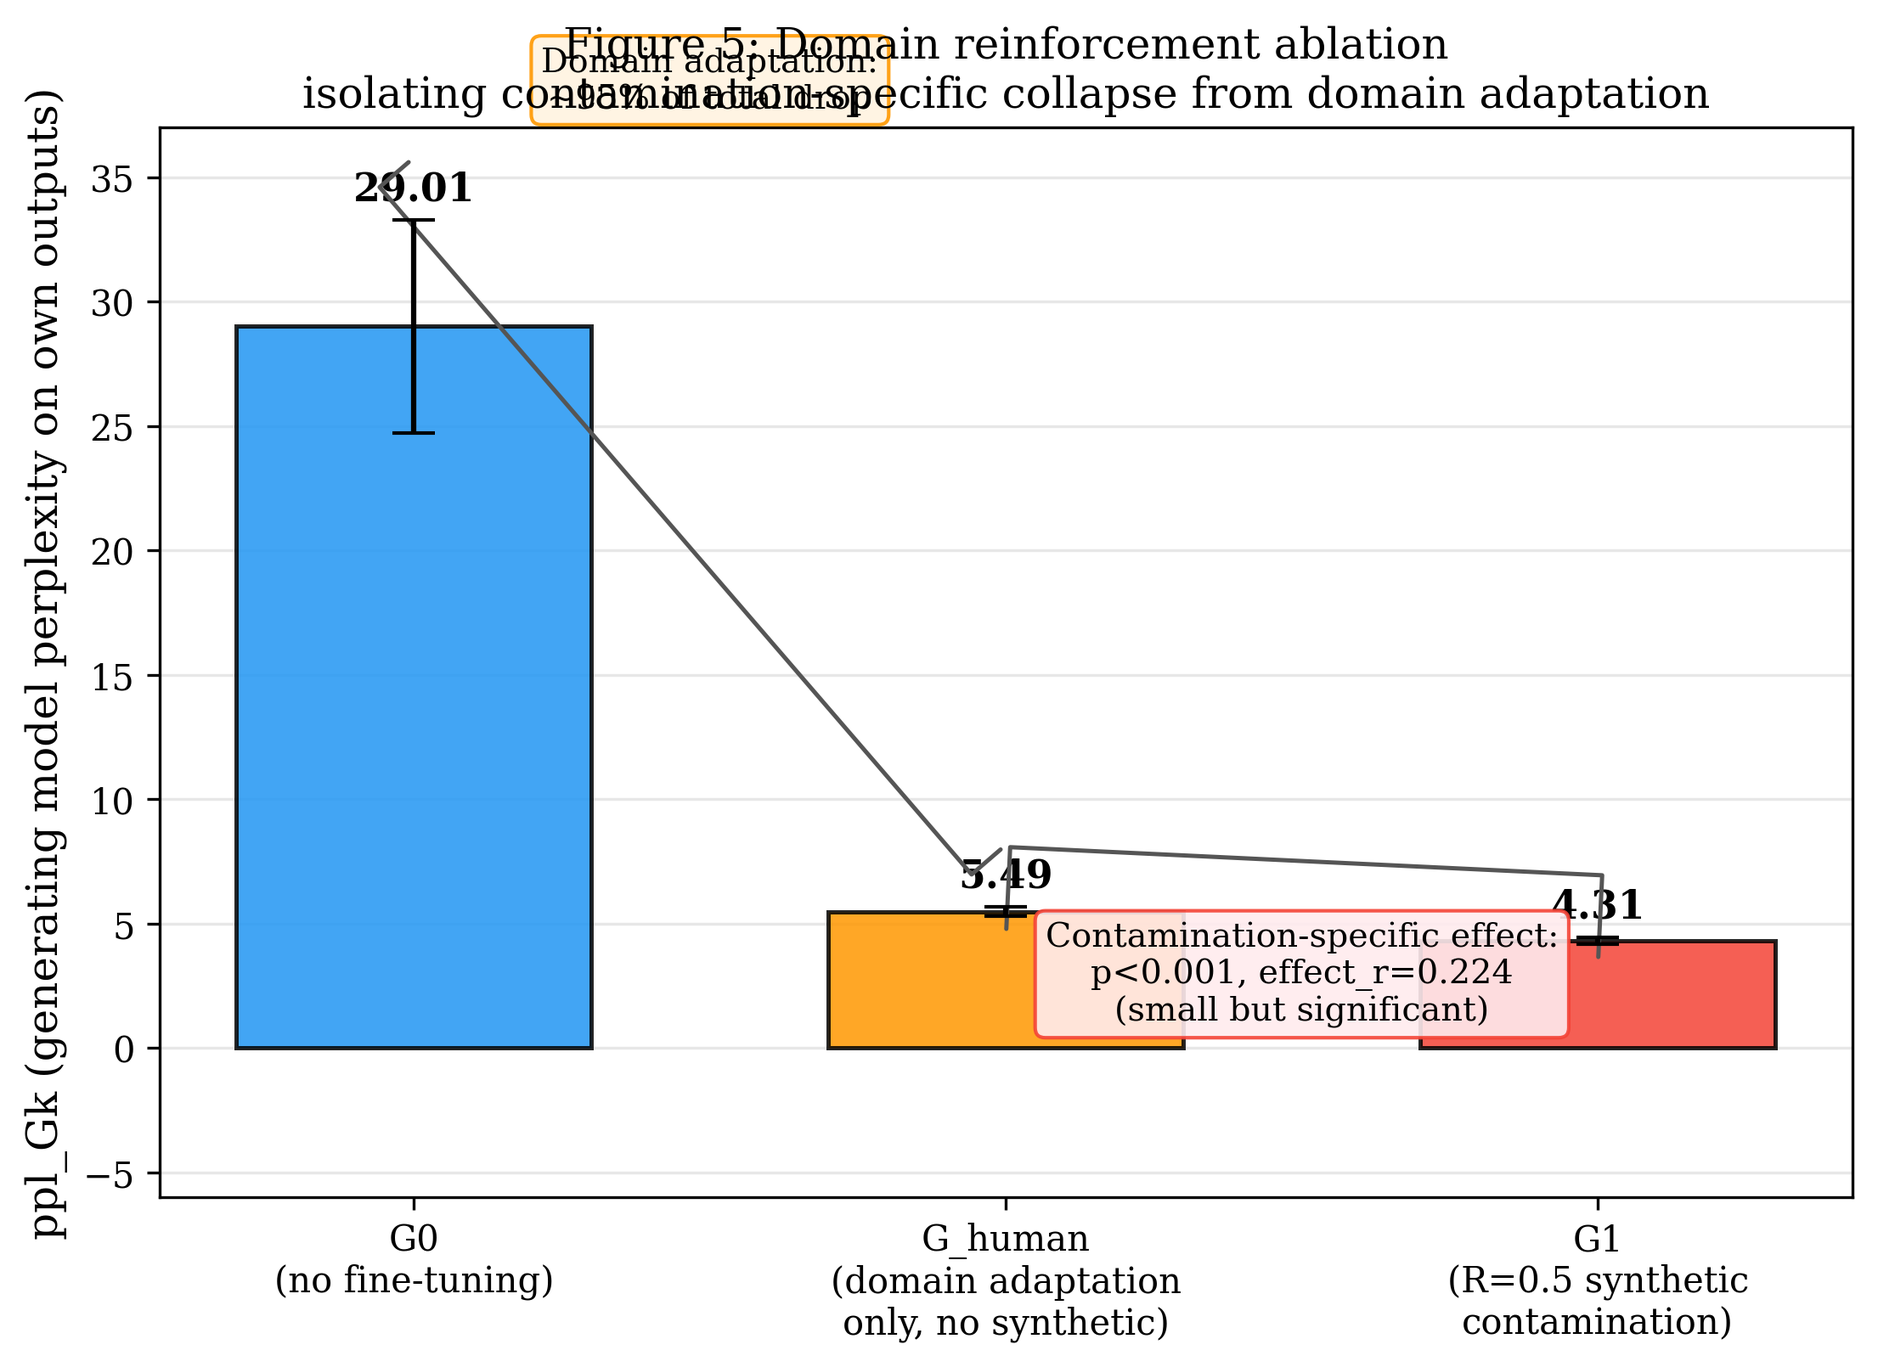
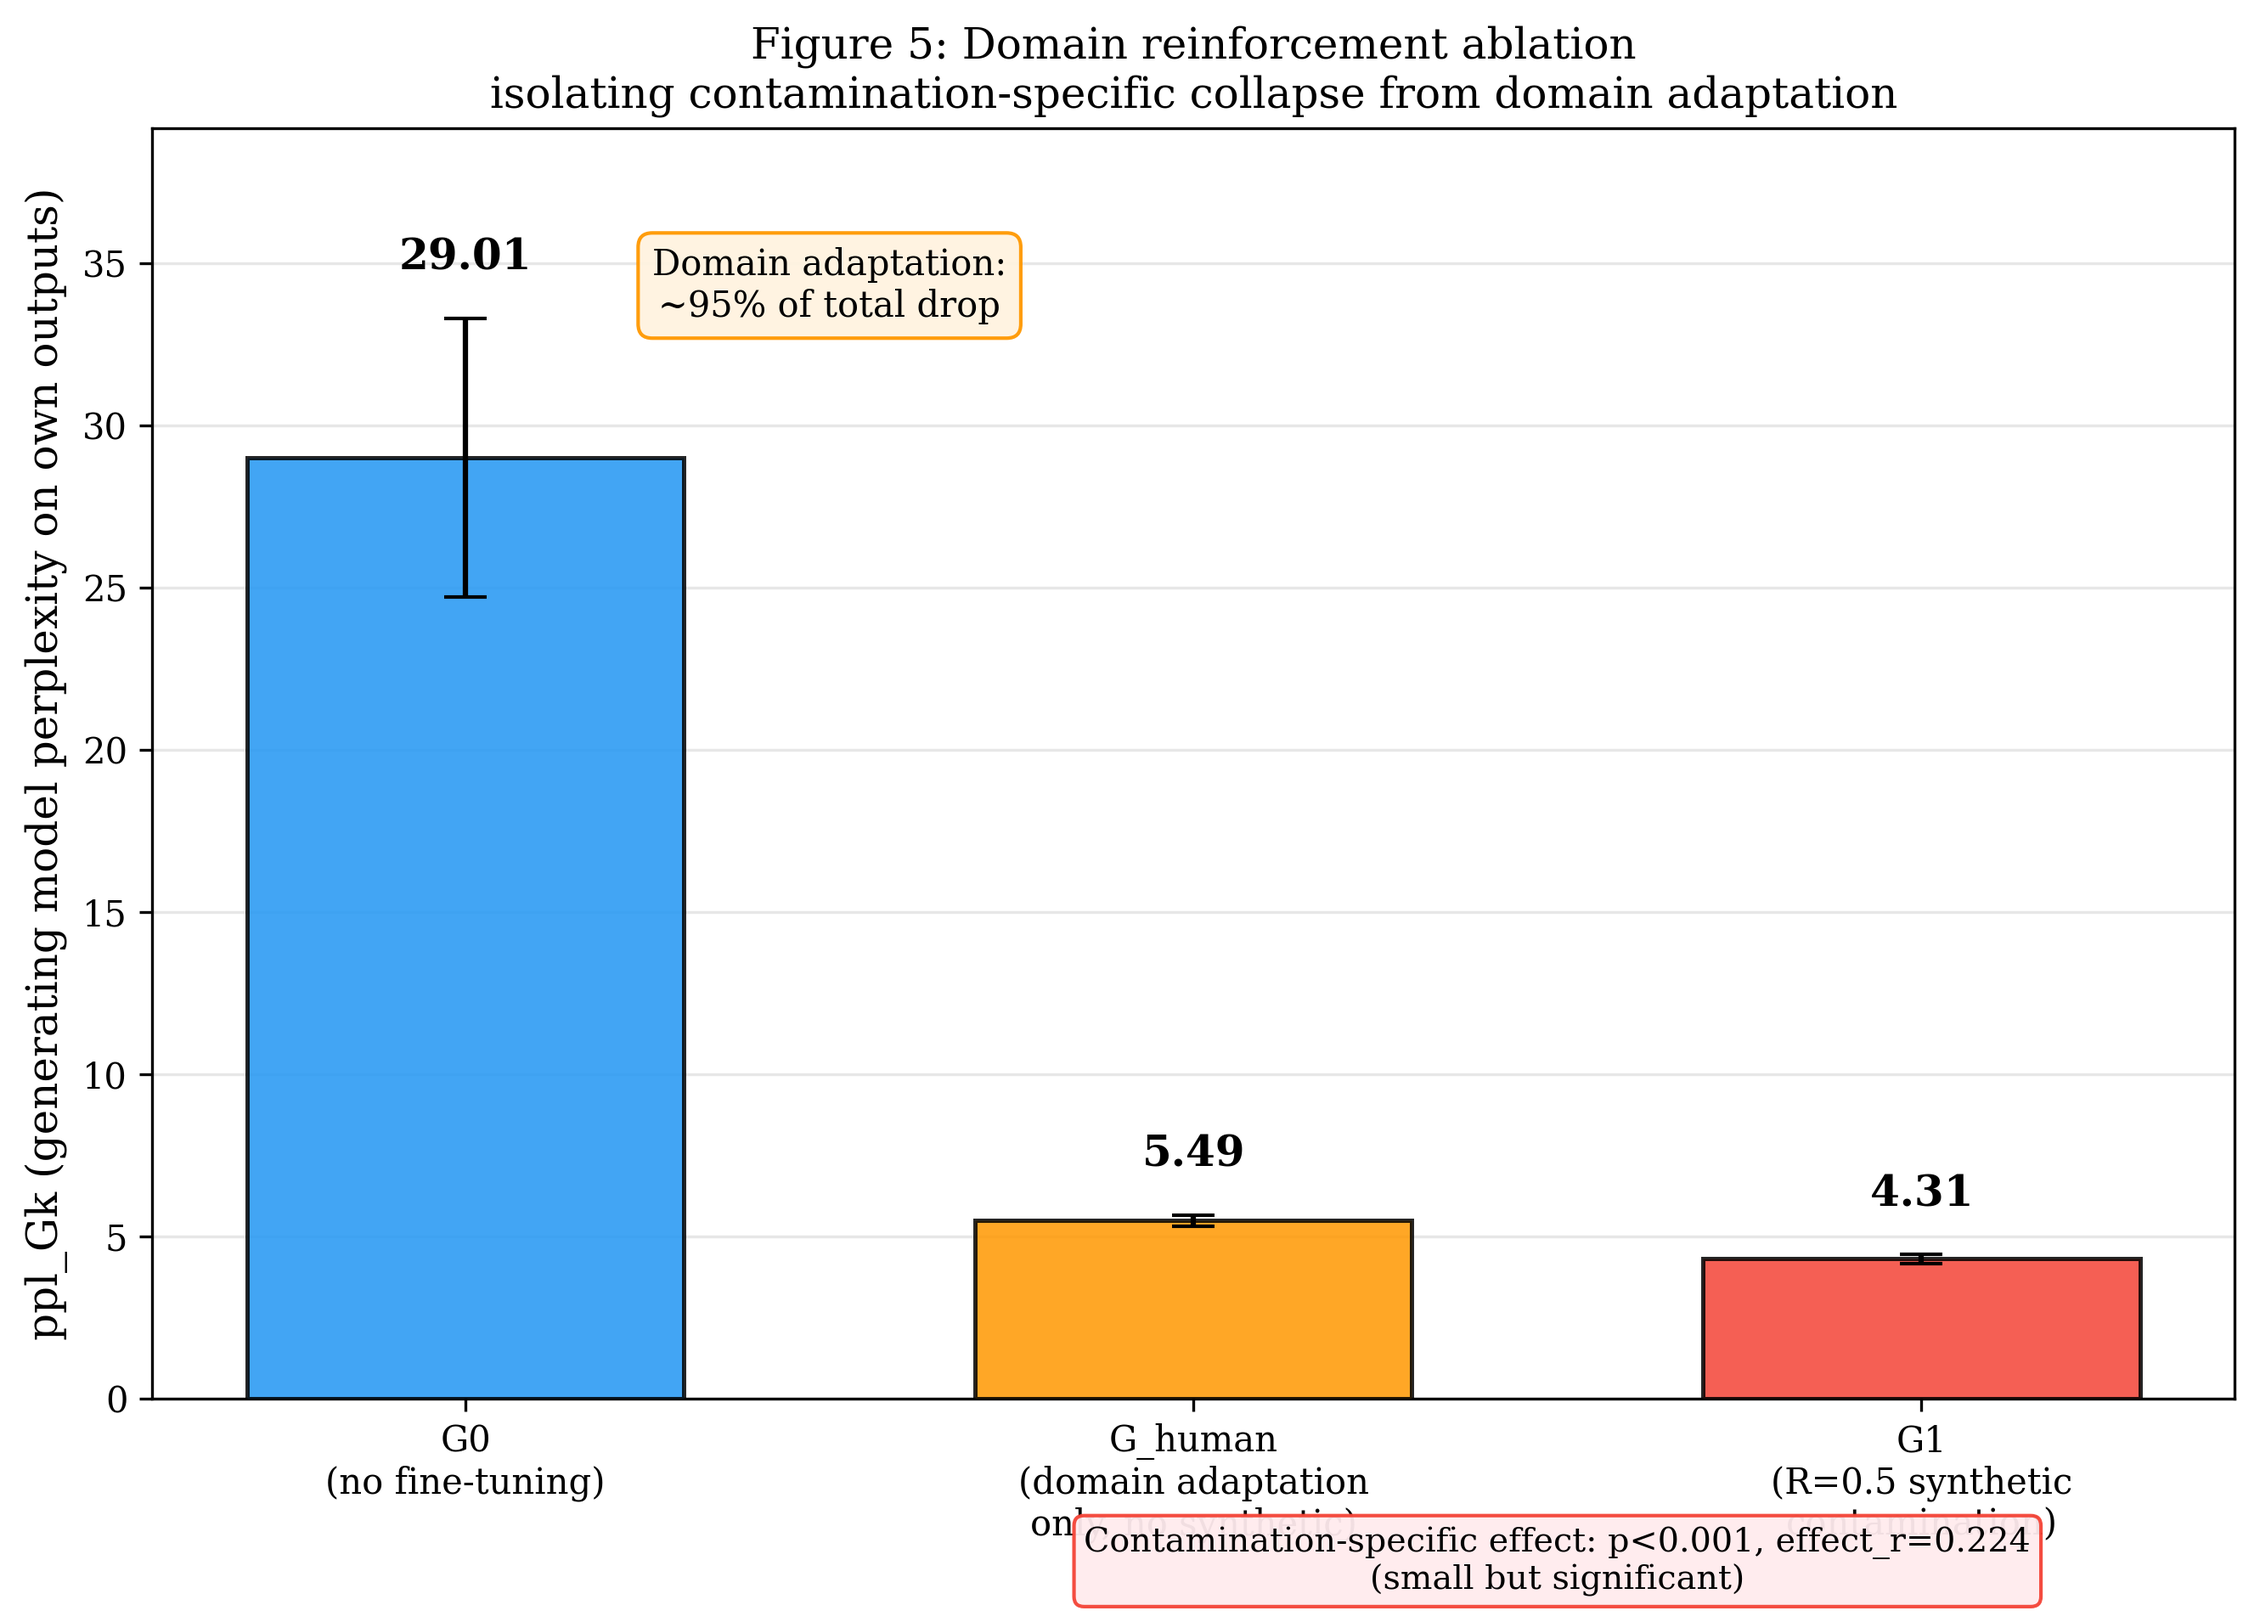
Add Figure 5 generation script and domain ablation plot
Decomposition:
- G0 -> G_human: 23.52 drop (95.2% domain adaptation)
- G_human -> G1: 1.18 drop (4.8% contamination-specific)
- Total G0 -> G1: 24.70 drop
- Mann-Whitney: U=25189, p=0.000007, effect_r=0.2244

diff --git a/plots/generate_figure5.py b/plots/generate_figure5.py
@@ -38,45 +38,39 @@ labels = ["G0\n(no fine-tuning)", "G_human\n(domain adaptation\nonly, no synthet
           "G1\n(R=0.5 synthetic\ncontamination)"]
 colors = ["#2196F3", "#FF9800", "#F44336"]
 
-fig, ax = plt.subplots(figsize=(7.5, 5.5))
-
-x = np.arange(3)
-ax.bar(x, means, yerr=sems, capsize=6, color=colors, alpha=0.85,
-       edgecolor="black", linewidth=1.2, width=0.6, zorder=3)
-
-for i, (m, s) in enumerate(zip(means, sems)):
-    ax.annotate(f"{m:.2f}", xy=(i, m + s + 0.8), ha="center",
-                fontsize=11, fontweight="bold")
-
-ax.set_xticks(x)
-ax.set_xticklabels(labels)
-ax.set_ylabel("ppl_Gk (generating model perplexity on own outputs)")
-ax.set_title("Figure 5: Domain reinforcement ablation\nisolating contamination-specific collapse from domain adaptation")
-ax.grid(axis="y", alpha=0.3, zorder=0)
-
-ax.annotate("", xy=(1, means[1]+sems[1]+2.5), xytext=(0, means[0]+sems[0]+2.5),
-            arrowprops=dict(arrowstyle="-", color="#555", linewidth=1.2,
-                             connectionstyle="bar,fraction=0.05"))
-ax.text(0.5, means[0]+sems[0]+4.5, "Domain adaptation:\n~95% of total drop",
-        ha="center", fontsize=9.5,
-        bbox=dict(boxstyle="round,pad=0.3", facecolor="#FFF3E0",
-                  edgecolor="#FF9800", alpha=0.9))
-
 U, p = stats.mannwhitneyu(g_human_ppls, g1_ppls, alternative="two-sided")
 n1, n2 = len(g_human_ppls), len(g1_ppls)
 z = (U - n1*n2/2) / (n1*n2*(n1+n2+1)/12)**0.5
 effect_r = abs(z) / (n1+n2)**0.5
 
-ax.annotate("", xy=(2, means[2]-sems[2]-0.8), xytext=(1, means[1]-sems[1]-0.8),
-            arrowprops=dict(arrowstyle="-", color="#555", linewidth=1.2,
-                             connectionstyle="bar,fraction=-0.15"))
-ax.text(1.5, min(means[1], means[2]) - 3.2,
-        f"Contamination-specific effect:\np<0.001, effect_r={effect_r:.3f}\n(small but significant)",
-        ha="center", fontsize=9.5,
-        bbox=dict(boxstyle="round,pad=0.3", facecolor="#FFEBEE",
-                  edgecolor="#F44336", alpha=0.9))
-
-ax.set_ylim(-6, max(means) + 8)
+fig, ax = plt.subplots(figsize=(9, 6.5))  # taller canvas
+x = np.arange(3)
+ax.bar(x, means, yerr=sems, capsize=6, color=colors, alpha=0.85,
+       edgecolor="black", linewidth=1.2, width=0.6, zorder=3)
+# Value labels ABOVE error bars, not overlapping the connector line
+for i, (m, s) in enumerate(zip(means, sems)):
+    ax.annotate(f"{m:.2f}", xy=(i, m + s + 1.5), ha="center",
+                fontsize=12, fontweight="bold", zorder=6)
+ax.set_xticks(x)
+ax.set_xticklabels(labels)
+ax.set_ylabel("ppl_Gk (generating model perplexity on own outputs)")
+ax.set_title("Figure 5: Domain reinforcement ablation\nisolating contamination-specific collapse from domain adaptation")
+ax.grid(axis="y", alpha=0.3, zorder=0)
+# Remove the diagonal connector line entirely — it's what's slicing
+# through "29.01". A bar chart doesn't need a trend line connecting
+# bar tops; the bars alone show the drop.
+# Top annotation: place well above G0's bar+error, no line crossing it
+ax.annotate("Domain adaptation:\n~95% of total drop",
+            xy=(0.5, max(means) * 1.15), ha="center", fontsize=10,
+            bbox=dict(boxstyle="round,pad=0.4", facecolor="#FFF3E0",
+                      edgecolor="#FF9800", alpha=0.95), zorder=5)
+# Bottom annotation: place BELOW the x-axis, not overlapping any bar
+ax.annotate(f"Contamination-specific effect: p<0.001, effect_r={effect_r:.3f}\n(small but significant)",
+            xy=(1.5, -0.15), xycoords=("data", "axes fraction"),
+            ha="center", fontsize=9.5,
+            bbox=dict(boxstyle="round,pad=0.3", facecolor="#FFEBEE",
+                      edgecolor="#F44336", alpha=0.95), zorder=5)
+ax.set_ylim(0, max(means) * 1.35)
 plt.tight_layout()
 plt.savefig("plots/figures/fig5_domain_ablation.png", dpi=300, bbox_inches="tight")
 plt.close()
